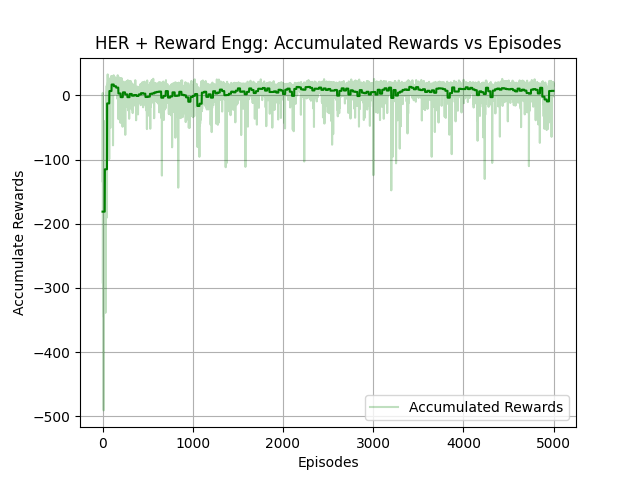
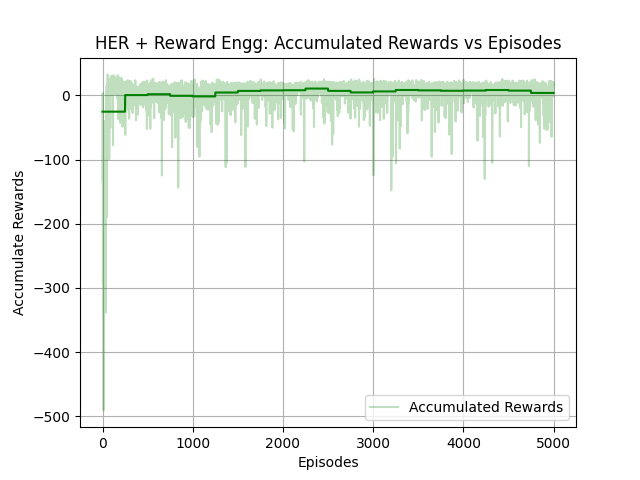
Updated Graphs

diff --git a/Test Analysis/plot_graphs.py b/Test Analysis/plot_graphs.py
@@ -37,9 +37,9 @@ if __name__ == '__main__':
     her_re = np.load ('HER + Reward Engieering/score_history.npy')
 
     # Plot the data
-    her = plot_graph(her, 25, 'red', 'HER: Accumulated Rewards vs Episodes')
-    re = plot_graph(re, 25, 'blue', 'Reward Engg: Accumulated Rewards vs Episodes')
-    her_re = plot_graph(her_re, 25, 'green', 'HER + Reward Engg: Accumulated Rewards vs Episodes')
+    her = plot_graph(her, 250, 'red', 'HER: Accumulated Rewards vs Episodes')
+    re = plot_graph(re, 250, 'blue', 'Reward Engg: Accumulated Rewards vs Episodes')
+    her_re = plot_graph(her_re, 250, 'green', 'HER + Reward Engg: Accumulated Rewards vs Episodes')
     
     
     
